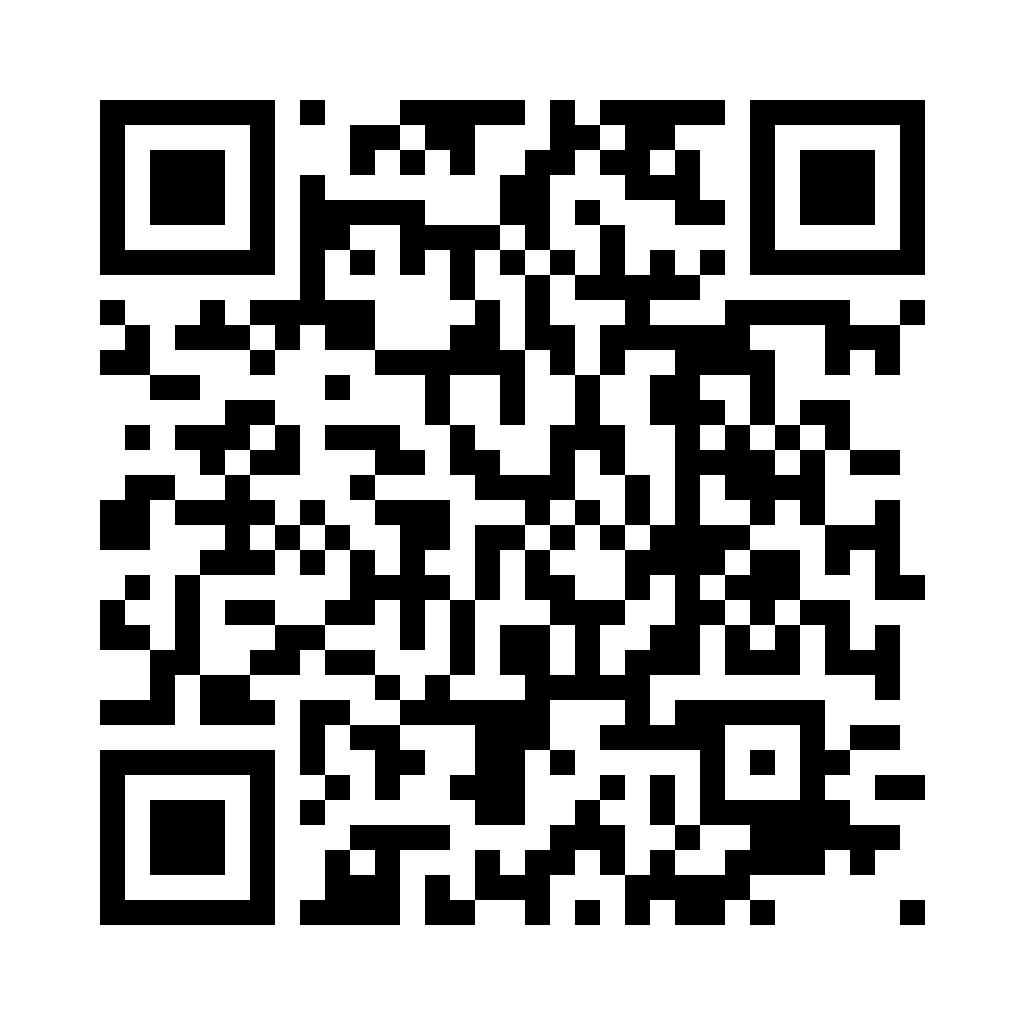
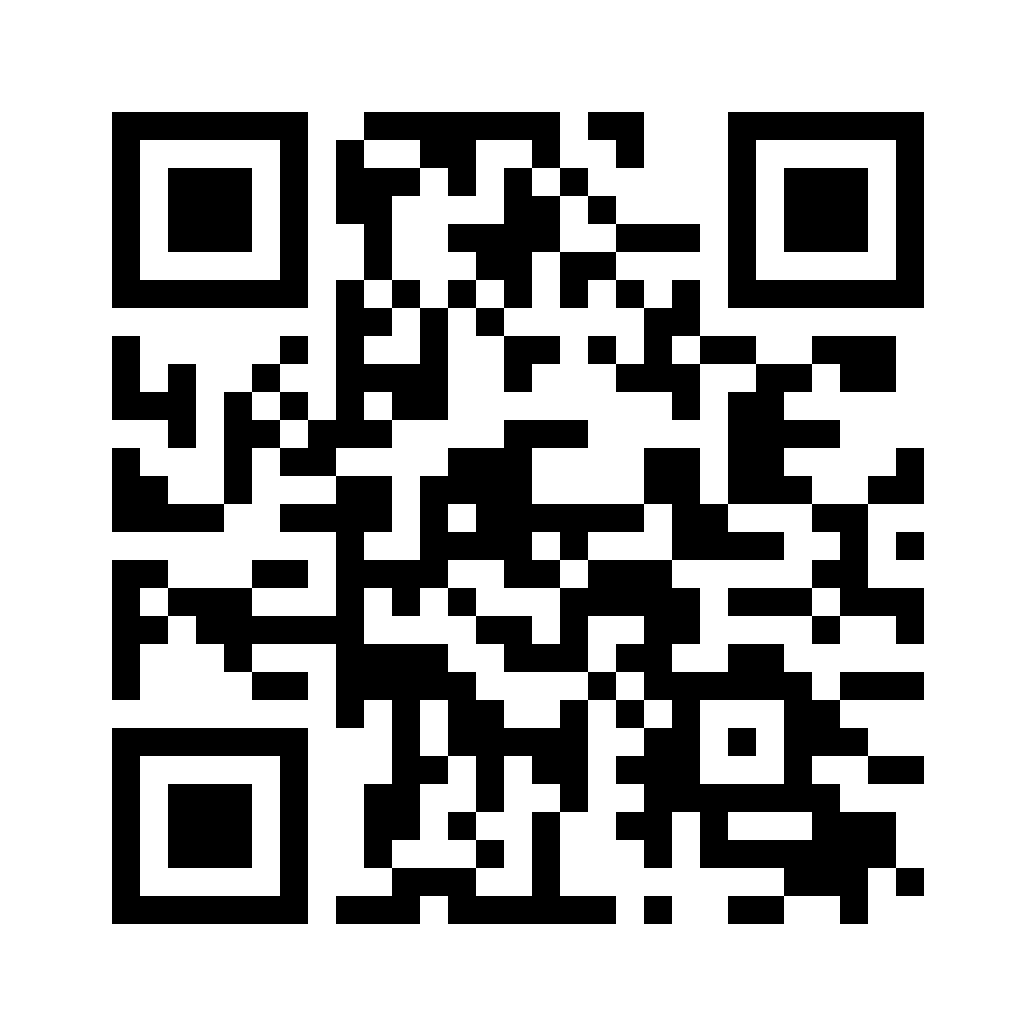
docs: 公开入口定为 Cloudflare Pages，永久地址与展板图随之更新
CI 两条通道都跑绿（cf-pages.yml 24s、pages.yml 20s），生产站的 key 已由 CI 注入
（51 位，非空），入口码独立解码得到 https://longnankejia.pages.dev/。
canonicalUrl 从 GitHub Pages 换成 Cloudflare Pages，展板成品图重生成并自检一致。

顺带记下两件核对时容易踩的事：Cloudflare 对不存在的路径回的是 200 + 一段 HTML
提示页，所以验证白名单要比对 Content-Type 而不是状态码；CI 令牌刻意用 Custom Token
只给 Cloudflare Pages:Edit，官方 Workers 模板会连带 13 项权限。

diff --git a/js/config.js b/js/config.js
@@ -16,7 +16,7 @@ window.APP_CONFIG = {
     publicUrl: '',
     // 永久地址：印展板用的二维码（scripts/make_entry_qr_png.py）认这一行，
     // 换正式域名时改这里，测试会解码成品图核对它没和代码脱节。
-    canonicalUrl: 'https://lwy9107124035.github.io/longnankejia/'
+    canonicalUrl: 'https://longnankejia.pages.dev/'
   },
 
   ai: {

diff --git a/README.md b/README.md
@@ -74,7 +74,7 @@ python scripts/scan_history_secrets.py  # 扫全部历史 blob 找 sk- 形态密
 
 ```
 node scripts/check_live_qr.mjs            # 抓生产站入口码 → .cache/live-entry-qr.png
-node scripts/check_live_qr.mjs https://lwy9107124035.github.io/longnankejia/dev/   # 抓 dev 预览那份
+node scripts/check_live_qr.mjs https://longnankejia-dev.pages.dev/   # 抓 dev 预览那份
 QR_PNG=.cache/live-entry-qr.png python tests/decode_entry_qr.py   # 解码，应等于被核验的那个网址
 ```
 
@@ -161,25 +161,31 @@ node   scripts/qr_matrix.mjs <文本>     # 用页面上同一个编码器把文
 
 ## 部署
 
-生产站：**https://lwy9107124035.github.io/longnankejia/**（`main` 分支）
-开发预览：**https://lwy9107124035.github.io/longnankejia/dev/**（`dev` 分支，豆包的工作分支）
-备用宿主：https://prismatic-syrniki-1e0e96.netlify.app（Netlify，见下）
+生产站：**https://longnankejia.pages.dev/**（`main`，Cloudflare Pages）
+开发预览：**https://longnankejia-dev.pages.dev/**（`dev`，豆包的工作分支）
+镜像：https://lwy9107124035.github.io/longnankejia/ 与 …/dev/（GitHub Pages）
+备用宿主：https://prismatic-syrniki-1e0e96.netlify.app（Netlify，额度耗尽后只手动）
 
-`pages.yml` 一次部署同时产出上面两个地址：分别签出 `main` 与 `dev`，各自只搬页面真正
-加载的东西（`index.html`、`css/`、`js/`、`assets/{avatar,pdf-imgs,textures}`）进
-`site/` 与 `site/dev/`。**这是白名单不是排除表**——以前 Netlify 用 `publish = "."`
-把整个仓库推上公网，实测 `tests/badge-template.npy`、`scripts/scan_history_secrets.py`
-和 8MB 的 `assets/source/` 原图都能直接下载，而 `docs/` 里是比赛通知与简历。
+两条自动通道（`cf-pages.yml` 与 `pages.yml`）都只做一件事：**按白名单**把页面真正加载的
+东西（`index.html`、`css/`、`js/`、`assets/{avatar,pdf-imgs,textures}`）搬进上线目录。
+不是排除表——以前 Netlify 用 `publish = "."` 把整个仓库推上公网，实测
+`tests/badge-template.npy`、`scripts/scan_history_secrets.py` 和 8MB 的 `assets/source/`
+原图都能直接下载，而 `docs/` 里是比赛通知与简历。注意 Cloudflare 对不存在的路径回的是
+**200 + 一段 HTML 提示页**，所以核对上线集要比对 `Content-Type`，不能只看状态码。
 
-两点约定，都有守卫且跑过反向用例：
+三点约定，都有守卫且跑过反向用例：
 
 - **dev 预览不注入 API Key**（`js/secrets.js` 写空 key，页面按设计回落到本地知识库引擎）。
   预览站是另一个公开域名，不该再带一份线上密钥——这个 key 之前已经泄露过一次。
-- **工作流文件只存在于 `main`**，靠显式 `ref: dev` 取开发分支内容。GitHub 读的是「被 push
-  那个 ref」里的工作流，而 `dev` 是豆包的专属分支（见 dev 上的 `AI_OWNER.md`），不该由我提交。
-  触发方式：push `main`、每小时 `:17` 定时、手动 `workflow_dispatch`。
+- **CI 用的 Cloudflare 令牌只有一项权限**：`Account → Cloudflare Pages → Edit`。
+  官方 "Edit Cloudflare Workers" 模板会连带 13 项（Workers KV/R2/Scripts、Memberships、
+  Account Settings…），对只推静态站的 CI 太宽，所以走 Custom Token。
+- **工作流文件只存在于 `main`**，靠显式 `ref: dev` 取开发分支内容（`pages.yml`）。GitHub 读的是
+  「被 push 那个 ref」里的工作流，而 `dev` 是豆包的专属分支（见 dev 上的 `AI_OWNER.md`），
+  不该由我提交——所以 **dev 的 CF/GitHub Pages 更新要等 dev 同步过 main 才会自动跑**，
+  在那之前靠 `main` 的推送与每小时 `:17` 定时（仅 `pages.yml`）。
 
-前提：仓库 Settings → Pages 的 Source 要选 **GitHub Actions**，否则 `deploy-pages` 会失败。
+GitHub Pages 那条通道需要仓库 Settings → Pages 的 Source 选 **GitHub Actions**（已设好）。
 
 ### 为什么离开 Netlify
 
